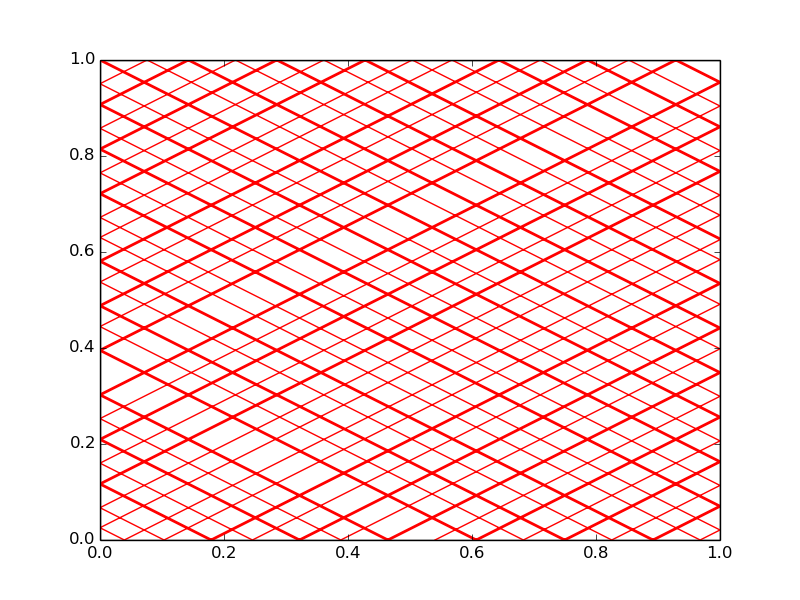
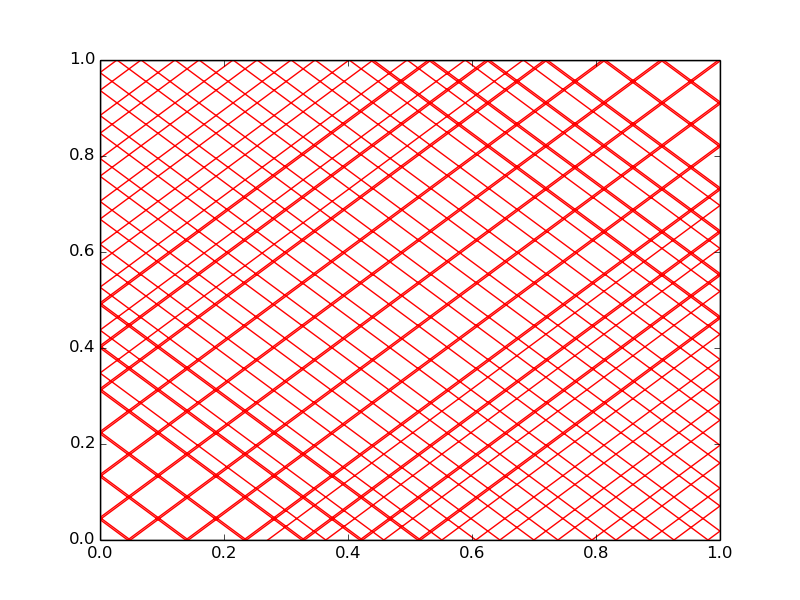
densité & grille rectifié (encore des bugs mineurs)

Changed region(s): [[0.125, 0.09, 0.9062, 0.9]]

diff --git a/carre.py b/carre.py
@@ -15,18 +15,17 @@ y_init = 0. # départ d'un bord pour raisons d'affichage
 V = [(np.random.random(),np.random.random())]
 T = [0.0] # ensemble des durées entre deux rebonds consécutifs
 Pt_Int = [(x_init,y_init)] # ensemble des points de rebond
-grille_finesse = 2**5
+grille_finesse = 2**6
 Grille = np.ones((grille_finesse,grille_finesse))
 
 i = 0
 while i < 100 :
+    print(i)
     x = Pt_Int[len(Pt_Int)-1][0]
     y = Pt_Int[len(Pt_Int)-1][1]
-    if i == 0: 
-        vx = float(V[0][0])
-        vy = float(V[0][1])
+    vx = V[len(V)-1][0]
+    vy = V[len(V)-1][1]
 
-    t = T[len(T)-1]
     I = []
     t_bas = - y/vy
     t_haut = (1. - y)/vy
@@ -36,26 +35,29 @@ while i < 100 :
 
     I = [l for l in I if l > 0.] ### and 0. <= round(x + t*vx,14) - np.sign(round(x + t*vx,14)) * 10**(-14) <= 1. and 0. <= round(y + t*vy, 14) - np.sign(round(x + t*vx,14)) * 10**(-14) <= 1.]
 
-
+    print(I)
     t = min(I)
-    T.append(t-10**(-14))
+    T.append(t)
     
     for h in range(grille_finesse):
         for j in range(grille_finesse):
-            k = 1./grille_finesse
-            grille_index = (h,j)
-            if np.sqrt((x+k*t*vx-k*h)**2+(y+k*t*vy-k*j)**2) < np.sqrt(2*k**2):
-                Grille[grille_index] += abs(np.sqrt(8*k**2)*vy/vx*abs(np.sqrt((x+k*t*vx-k*h)**2+(y+k*t*vy-k*j)**2) - np.sqrt(2*k**2)))
+            for n in range(grille_finesse):
+                k = 1./grille_finesse
+                grille_index = (grille_finesse-1-j,h)
+                if np.sqrt((x+n*k*t*vx-k*h)**2+(y+n*k*t*vy-k*j)**2) < k/2.:
+                    Grille[grille_index] += abs(np.sqrt(8*k**2)*vy/vx*(np.sqrt((x+k*t*vx-k*h)**2+(y+k*t*vy-k*j)**2) - k/2.))
+                    #Grille[grille_index] += 1
+        
 
-
+        
     x = x + t*vx
     y = y + t*vy
     Pt_Int.append((abs(round(x,14)),abs(round(y,14))))
     
     if round(x,14) == 1. or round(x,14) == 0.:
-        vx = -vx
+        V.append((-vx,vy))
     elif round(y,14) == 1. or round(y,14) == 0.: 
-        vy = -vy
+        V.append((vx,-vy))
     else:
         print("There is a problem","\n")
         
@@ -65,15 +67,16 @@ while i < 100 :
 #Grille = [np.log(l) for l in Grille]
 print(Grille,"\n")
 
+
+
 X_pt_int = []
 Y_pt_int = []
-
-
 for i in Pt_Int[:] :
     X_pt_int.append(i[0])
     Y_pt_int.append(i[1])
     
     
+
 plt.plot(carre[0],carre[1], 'k-', X_pt_int, Y_pt_int, 'r-')
 plt.savefig('display1.png') # Any filename will do
 plt.matshow(Grille, fignum=100, cmap=plt.cm.gray)
